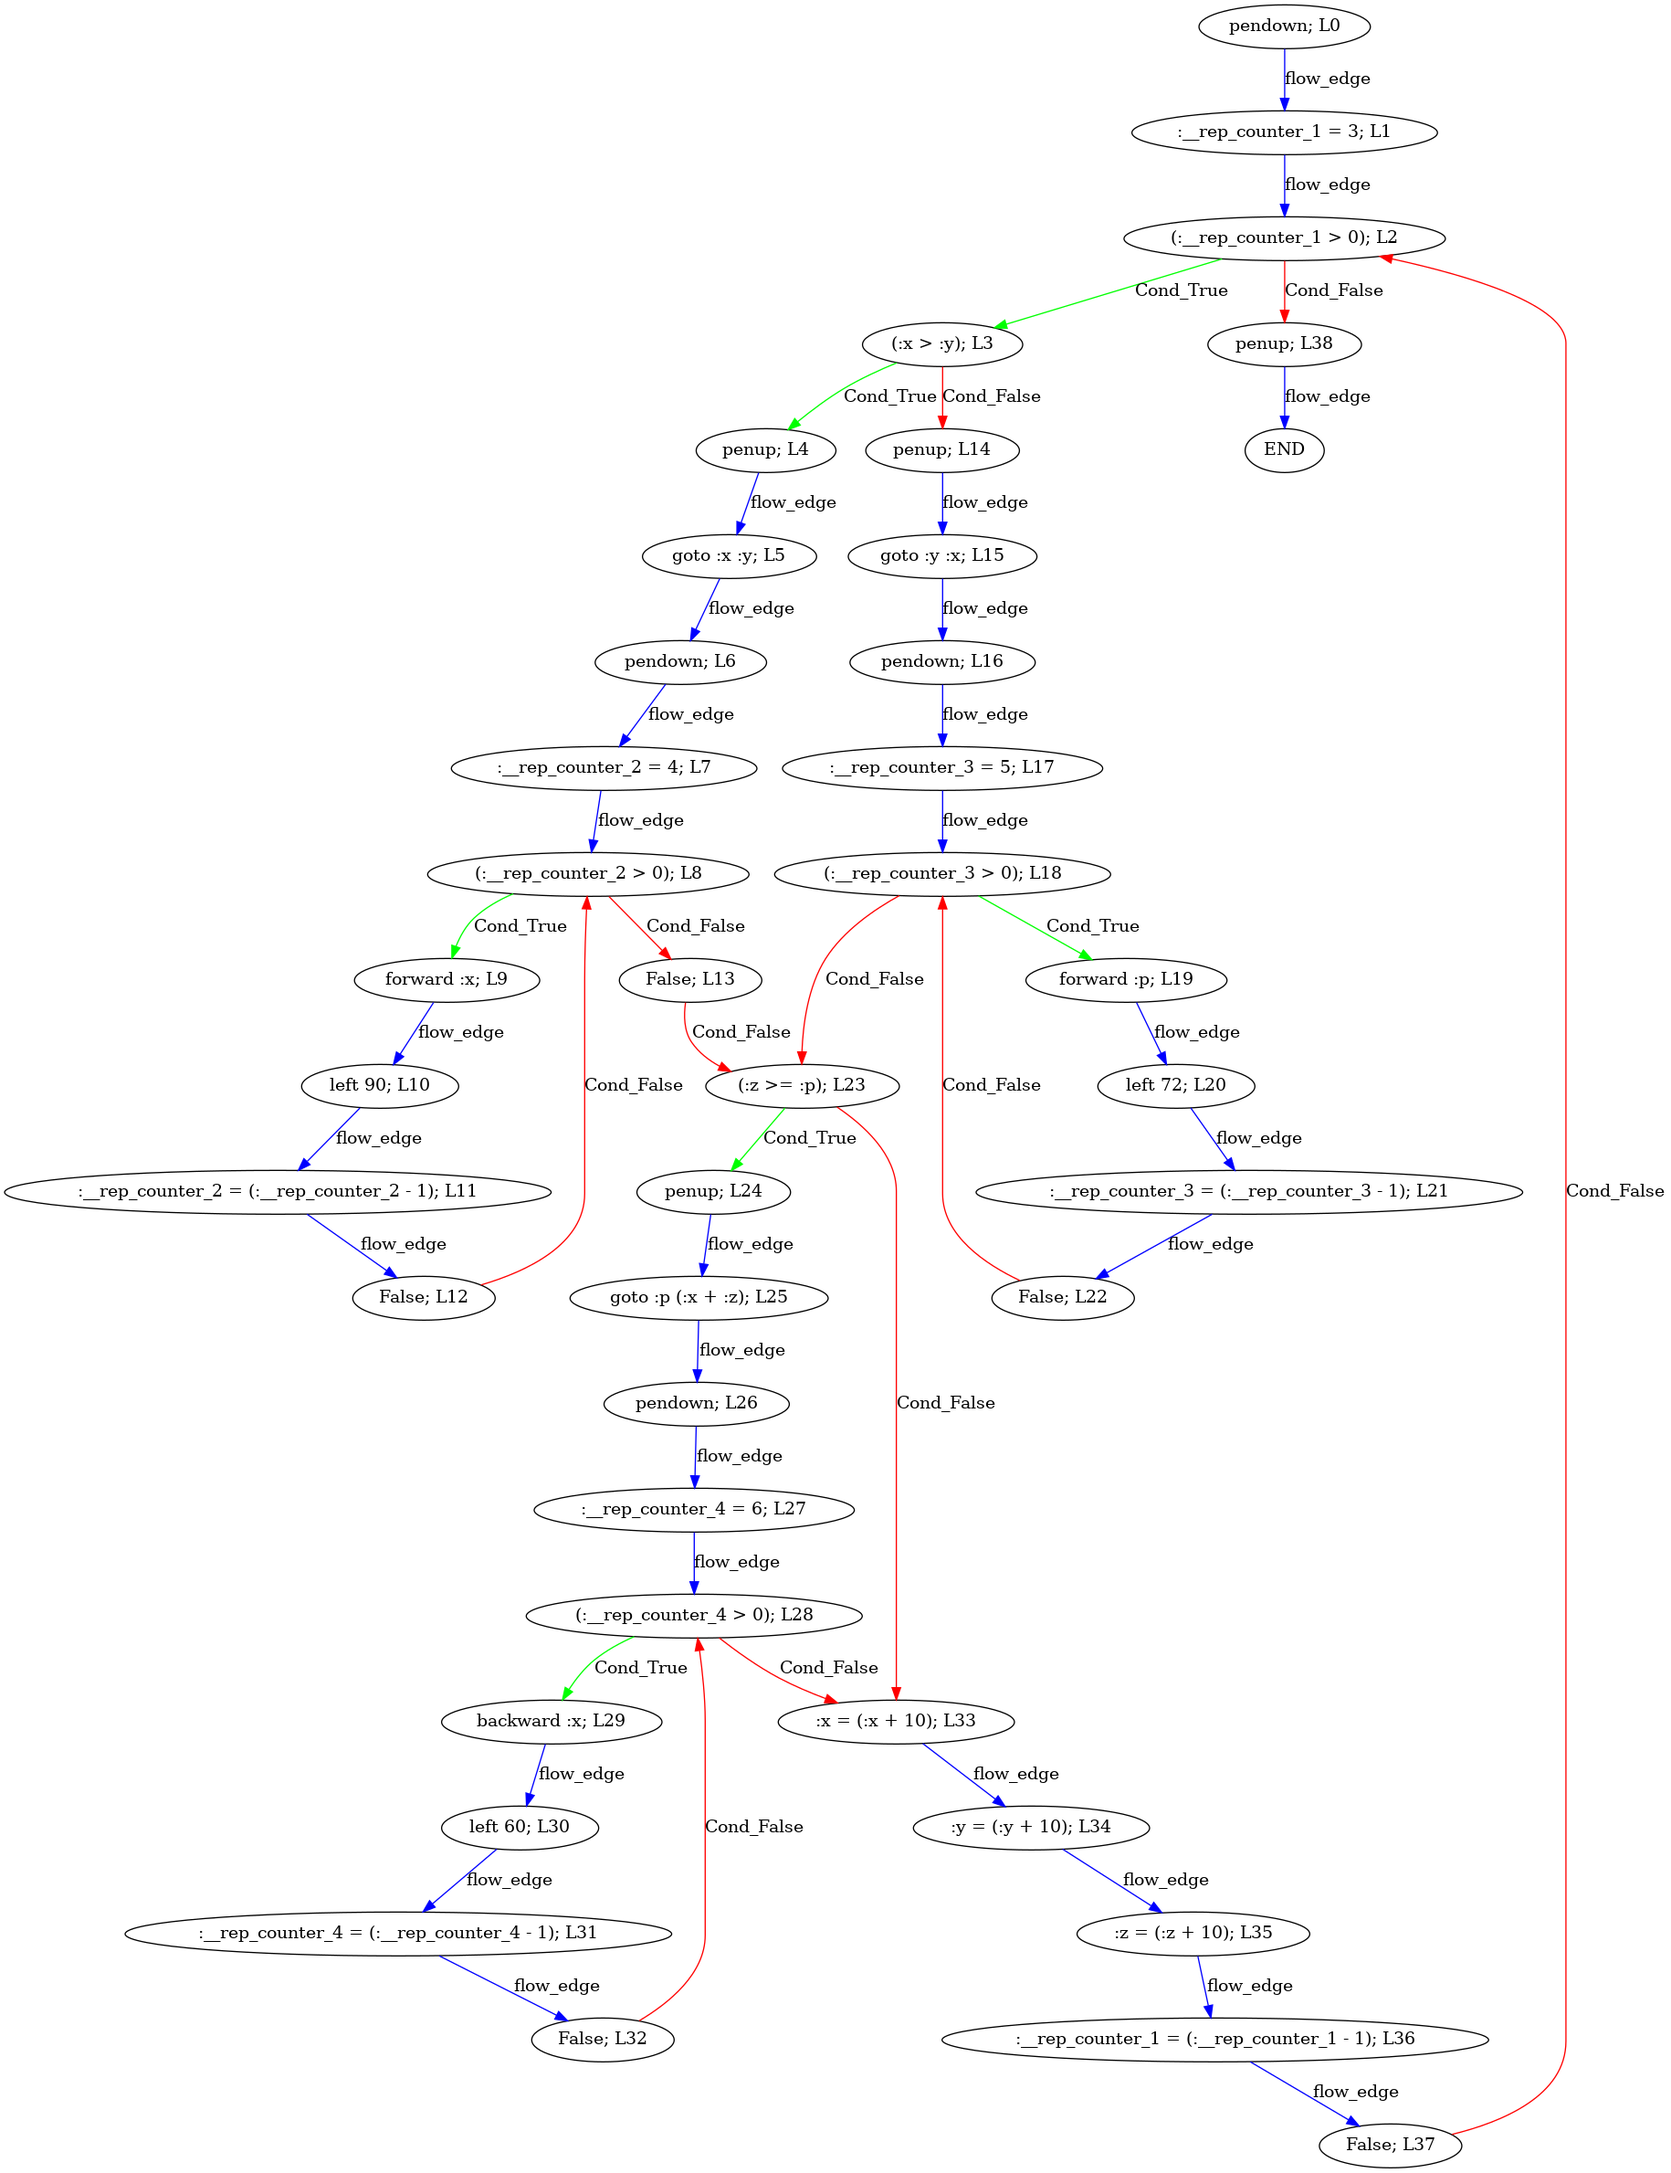
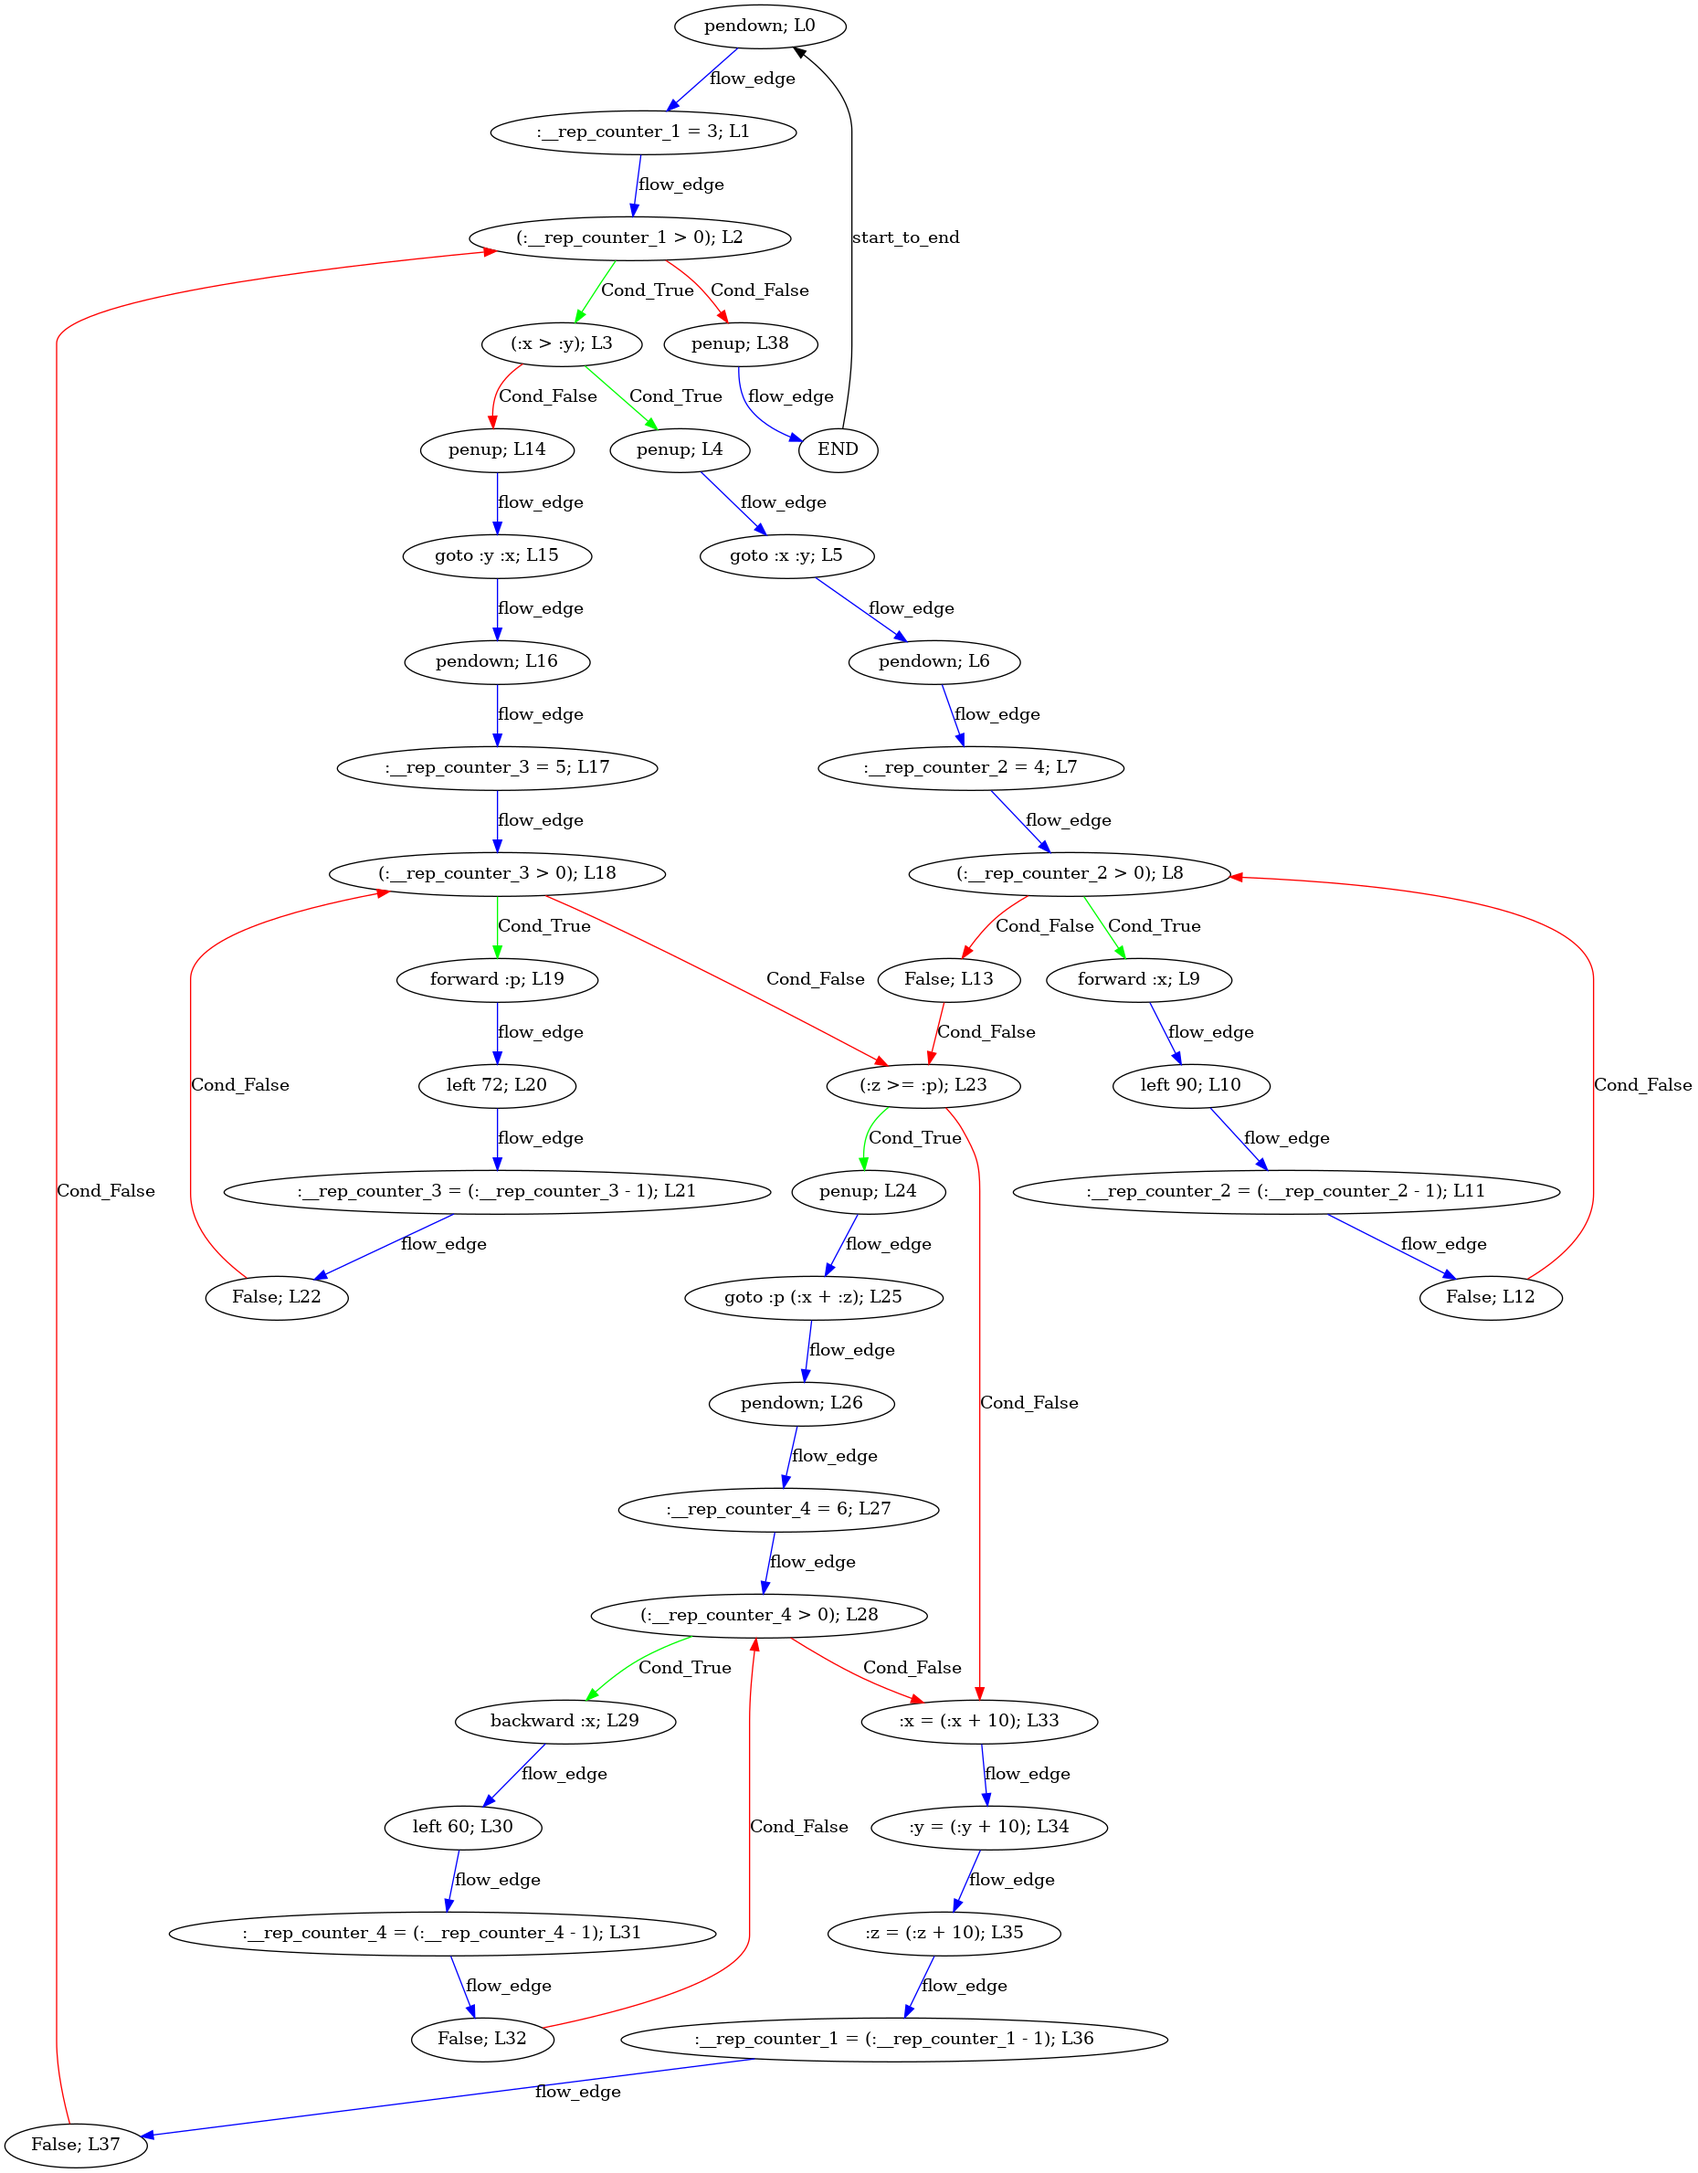
Working Optim Edge Counters

diff --git a/interpreter.py b/interpreter.py
@@ -20,7 +20,7 @@ class Interpreter:
 
     def __init__(self, irHandler, params):
         self.ir = irHandler.ir
-        self.cfg = irHandler.cfg
+        cfg = irHandler.cfg
         self.pc = 0
         self.t_screen = turtle.getscreen()
         self.trtl = turtle.Turtle()
@@ -195,7 +195,7 @@ class ConcreteInterpreter(Interpreter):
     #     exec(f"self.prg.{stmt.name}[{pos}] = {stmt.value}")
     #     return 1
     
-    def DumpProfilingData(self, leaderIndices):
+    def DumpProfilingData(self, cfg, leaderIndices):
         file_path = self.args.progfl
 
         # Extracting the filename without the extension
@@ -204,25 +204,32 @@ class ConcreteInterpreter(Interpreter):
         # Reconstruct edge list from prg attributes
         edge_source_array = getattr(self.prg, 'edge_source')
         edge_target_array = getattr(self.prg, 'edge_target')
-        edge_instr_idx_array = getattr(self.prg, 'edge_instr_indices')
         edge_instr_values = getattr(self.prg, 'edge_counters')
+
+        # Print the instrumented edges with their counts
+        print("Instrumented Edges and Counts:")
+        for i in range(len(edge_source_array)):
+            src = edge_source_array[i]
+            tgt = edge_target_array[i]
+            count = edge_instr_values[i]
+            print(f"Edge from {src} to {tgt} has count {count}")
 
         # Build actual edge tuples from indices
         ecnt_edges = []
-        for i in edge_instr_idx_array:
+        for i in range(len(edge_source_array)):
             src = edge_source_array[i]
             tgt = edge_target_array[i]
-            for e in self.cfg.edges():
+            for e in cfg.edges():
                 if e[0].irID == src and e[1].irID == tgt:
                     ecnt_edges.append(e)
                     break
 
         # Compute edge counters for all edges
-        edge_counter_map = propagate_counts(self.cfg, ecnt_edges, edge_instr_values)
+        edge_counter_map = propagate_counts(cfg, ecnt_edges, edge_instr_values)
 
         # Map nodes to indices and back
-        node_id_map = {node: idx for idx, node in enumerate(self.cfg.nodes())}
-        node_counter_map = compute_node_counters(self.cfg, edge_counter_map)
+        node_id_map = {node: idx for idx, node in enumerate(cfg.nodes())}
+        node_counter_map = compute_node_counters(cfg, edge_counter_map)
 
         # Convert edge counters to arrays for dumping
         edge_counter_array = []
@@ -234,7 +241,7 @@ class ConcreteInterpreter(Interpreter):
             edge_tgt_array.append(v.irID)
 
         # Convert node counters to array
-        node_counter_array = [0] * len(self.cfg.nodes())
+        node_counter_array = [0] * len(cfg.nodes())
         for node, count in node_counter_map.items():
             node_counter_array[node_id_map[node]] = count
 
@@ -266,35 +273,38 @@ def propagate_counts(cfg, ecnt_edges, edge_counters):
     Given a set of edges `ecnt_edges` (those instrumented) and their counters,
     compute the frequencies for all other edges in the CFG using edge propagation algorithm.
     """
-    all_edges = list(cfg.edges())
-    cnt = {e: 0 for e in all_edges}
+    cnt = {e: 0 for e in cfg.nxgraph.edges()}
 
     # Initialize counters for instrumented edges
     for idx, e in enumerate(ecnt_edges):
         cnt[e] = edge_counters[idx]
 
+    visited = set()
+
     def dfs(v, incoming_edge):
-        in_edges = [e for e in all_edges if e[1] == v]
-        out_edges = [e for e in all_edges if e[0] == v]
+        if incoming_edge in visited:
+            return
+        visited.add(incoming_edge)
 
-        in_sum = 0
-        for e in in_edges:
-            if e != incoming_edge and e not in ecnt_edges:
-                dfs(e[0], e)
-            in_sum += cnt[e]
+        in_edges = [(u, v) for u in cfg.predecessors(v)]
+        out_edges = [(v, w) for w in cfg.successors(v)]
 
-        out_sum = 0
-        for e in out_edges:
-            if e != incoming_edge and e not in ecnt_edges:
-                dfs(e[1], e)
-            out_sum += cnt[e]
+        in_sum = sum(cnt[e] for e in in_edges)
+        out_sum = sum(cnt[e] for e in out_edges)
 
-        if incoming_edge is not None and incoming_edge not in ecnt_edges:
+        if incoming_edge not in ecnt_edges:
             cnt[incoming_edge] = max(in_sum, out_sum) - min(in_sum, out_sum)
 
-    # Run DFS from the entry point of the CFG
-    entry_node = cfg.graph['entry'] if 'entry' in cfg.graph else list(cfg.nodes)[0]
-    dfs(entry_node, None)
+        for e in in_edges:
+            if e not in ecnt_edges and e != incoming_edge:
+                dfs(e[0], e)
+        for e in out_edges:
+            if e not in ecnt_edges and e != incoming_edge:
+                dfs(e[1], e)
+
+    entry_node = cfg.entry
+    for succ in cfg.nxgraph.successors(entry_node):
+        dfs(succ, (entry_node, succ))
 
     return cnt
 

diff --git a/Profiling/Instrumentation.py b/Profiling/Instrumentation.py
@@ -33,7 +33,7 @@ def add_edge_instrum_code(irHandler, ir, cfg, selected_edges):
     for idx,edge in enumerate(cfg_edges):
         block_A=edge[0]
         block_B=edge[1]
-        if(block_A.irID=="START" or block_B.irID=="END" or cfg.get_edge_label(block_A,block_B)=='Cond_True'):
+        if(block_A.irID=="START" or block_A.irID=="END" or block_B.irID=="END" or block_B.irID=="START" or cfg.get_edge_label(block_A,block_B)=='Cond_True'):
         #Skiping start , end and fallthrough edges
             continue
         lstinstr_pos = block_A.irID+len(block_A.instrlist)+instr_added
@@ -173,7 +173,9 @@ def compute_edges_for_instrumentation(cfg):
     # Convert edge_weights to max-heap format by negating weights
     max_heap = []
     for idx, (u, v) in enumerate(edges):
-        weight = edge_weights.get((u, v), 0)
+        weight = edge_weights.get((u, v))
+        if weight is None:
+            weight = 0
         heapq.heappush(max_heap, (-weight, idx, u, v))
     
     parent = {node: node for node in nodes}
@@ -209,25 +211,32 @@ def add_instrumentation_code(irHandler):
 
     # Constructing the CFG for the original code
     cfg = cfgB.buildCFG(ir, "control_flow_graph", False)
+    #        # Print the edges in the CFG
+    # print("Edges in the CFG:")
+    # for edge in cfg.edges():
+    #     print(f"{edge[0].irID} -> {edge[1].irID}")
 
     compute_edge_weights(cfg)
+    # cfg_edges = cfg.edges()
+    # edge_weights = cfg.get_edge_weights()
+
+    # print("CFG Edges and Weights:")
+    # for edge in cfg_edges:
+    #     weight = edge_weights.get(edge, 0)
+    #     print(f"Edge {edge[0].irID} -> {edge[1].irID}, Weight: {weight}")
+
 
     instrumentation_edges = compute_edges_for_instrumentation(cfg)
-    print("Edges to be instrumented (not in max spanning tree):")
-    for edge in instrumentation_edges:
-        print(f"Edge {edge[0].irID} -> {edge[1].irID}")
+    # print("Edges to be instrumented (not in max spanning tree):")
+    # for edge in instrumentation_edges:
+    #     print(f"Edge {edge[0].irID} -> {edge[1].irID}")
+    # instrumentation_edges = cfg.edges()
 
     # Print the edges of the CFG along with their weights
-    cfg_edges = cfg.edges()
-    edge_weights = cfg.get_edge_weights()
 
-    print("CFG Edges and Weights:")
-    for edge in cfg_edges:
-        weight = edge_weights.get(edge, 0)
-        print(f"Edge {edge[0].irID} -> {edge[1].irID}, Weight: {weight}")
 
     cfg_edges=cfg.edges()
-    num_edges=len(cfg_edges)
+    num_edges=len(instrumentation_edges)
 
     #Edge counter array Initialisation
     edge_array_init_inst=ChironAST.ArrayInitialise("edge_counters",num_edges)
@@ -238,11 +247,11 @@ def add_instrumentation_code(irHandler):
     edge_target_init_inst=ChironAST.ArrayInitialise("edge_target",num_edges)
     irHandler.addInstruction(ir,edge_target_init_inst,0)
     global instr_added
-    instr_added=4
+    instr_added=3
     # Add instrumentation code for selected edges
     add_edge_instrum_code(irHandler, ir, cfg, instrumentation_edges)
     edge_code=instr_added
     # Jump to the user source code after initialisation
     goto_code_inst=ChironAST.ConditionCommand(False)
-    irHandler.addInstruction(ir,goto_code_inst,4,offset=edge_code-3)
+    irHandler.addInstruction(ir,goto_code_inst,3,offset=edge_code-2)
     return leaderIndices

diff --git a/chiron.py b/chiron.py
@@ -311,6 +311,10 @@ if __name__ == "__main__":
         # Dumping Original CFG
         cfg = cfgB.buildCFG(ir, "control_flow_graph", True)
         cfgB.dumpCFG(cfg, filename_org)
+        # Print the edges in the CFG
+        print("Edges in the CFG:")
+        for edge in cfg.edges():
+            print(f"{edge[0].irID} -> {edge[1].irID}")
         # Adding Instrumentation
         print("Welcome to Profiling Module !")
         leaderIndices=instr.add_instrumentation_code(irHandler)
@@ -326,7 +330,7 @@ if __name__ == "__main__":
             if terminated:
                 break
         # Displaying the counters
-        inptr.DumpProfilingData(leaderIndices)
+        inptr.DumpProfilingData(cfg,leaderIndices)
         print("Program Ended.")
         print()
         print("Press ESCAPE to exit")

diff --git a/cfg/cfgBuilder.py b/cfg/cfgBuilder.py
@@ -62,6 +62,8 @@ def buildCFG(ir, cfgName="", isSingle=False):
 
     # adding edges
     for node in cfg:
+        if node == endBB:
+            cfg.add_edge(endBB, startBB, label='start_to_end', color='black')
         listSize = len(node.instrlist)
         if listSize:
             irIdx = (node.instrlist[-1])[1]
